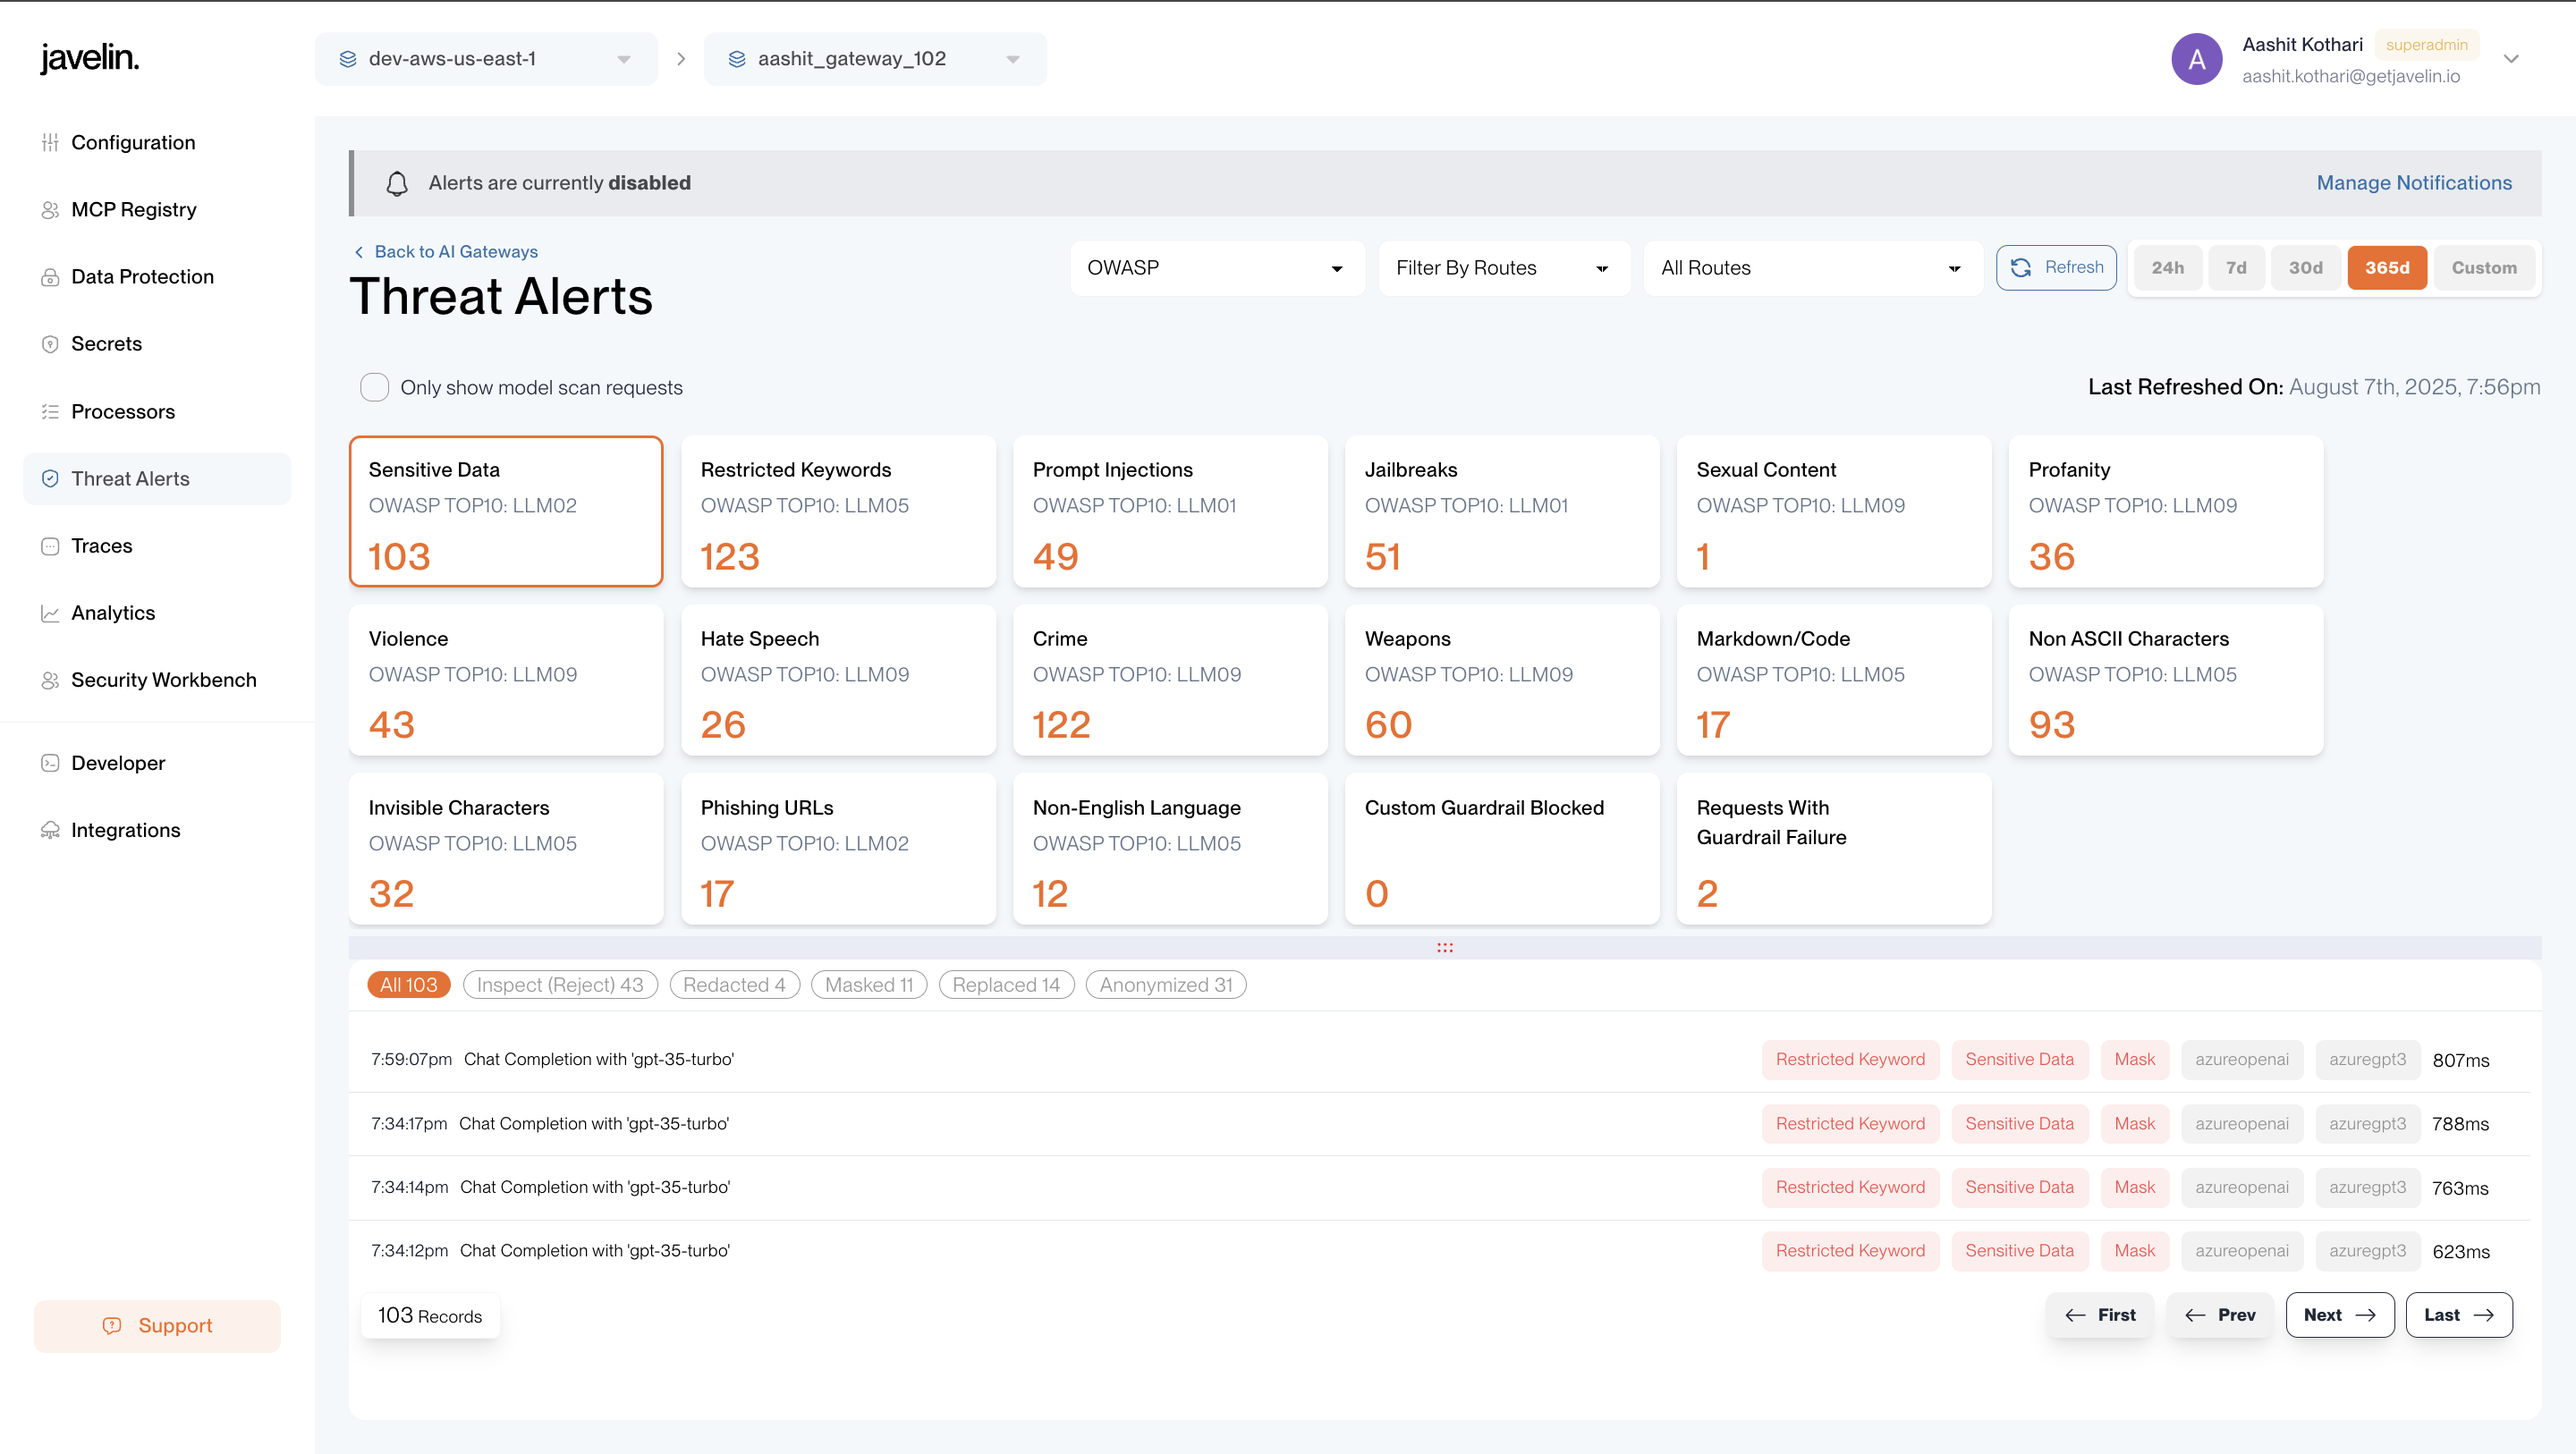
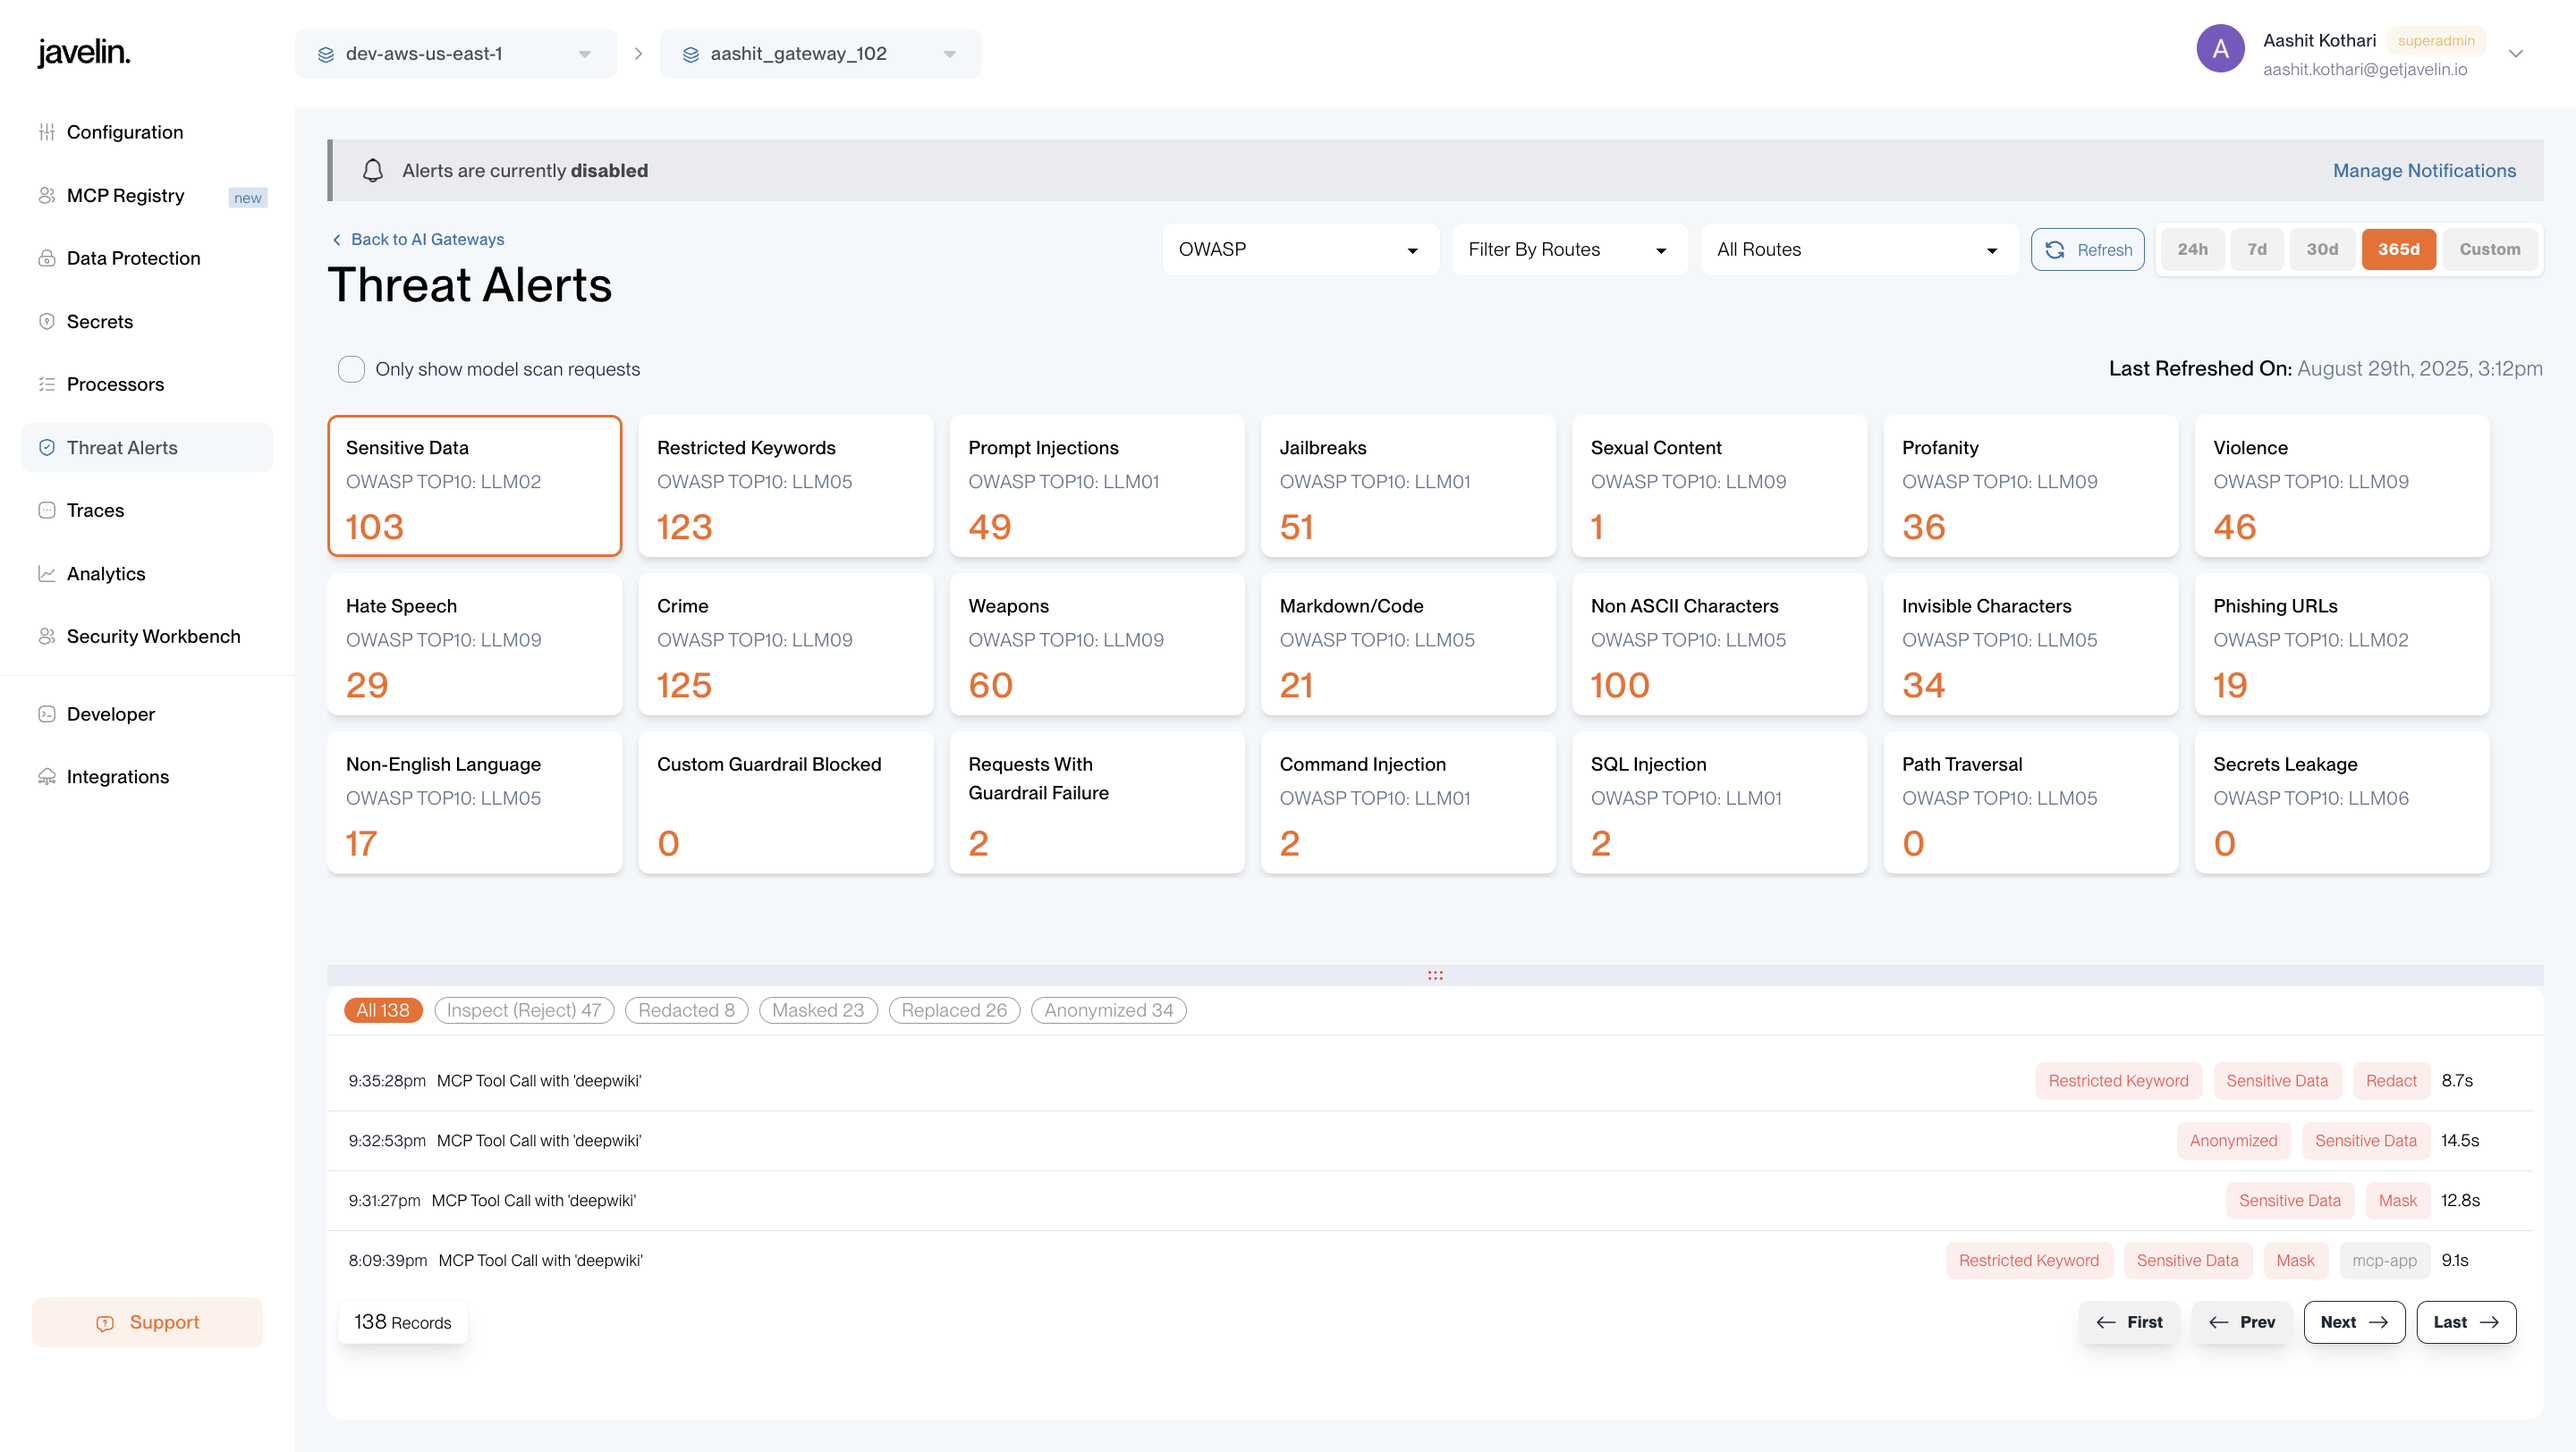
fix: Added security filter policy details in mcp documentation

diff --git a/docs/javelin-core/mcpoverview.md b/docs/javelin-core/mcpoverview.md
@@ -22,7 +22,7 @@ Within Javelin, MCP acts as a **bridge between LLMs and external systems**, enab
 - **Application-Centric Usage** – All MCP interactions are tied to the Application that invoked them, keeping usage, logs, and policies scoped to the right context.
 
 ### **2. Enterprise Security**
-- **Policy Enforcement** – Apply filters (e.g., Malicious Instruction Injections, Data Protection).  
+- **Policy Enforcement** – Apply filters (e.g., Malicious Instruction Injections, Data Protection, Security Filters).  
 - **Audit Trail** – Every request and tool invocation is logged.  
 - **Vulnerability Scan** – Whenever you **enable/disable a tool** or open the **Tools tab**, Javelin automatically runs a **vulnerability scan** to detect security risks in that tool.  
 
@@ -53,7 +53,7 @@ Within Javelin, MCP acts as a **bridge between LLMs and external systems**, enab
 
 ### Core Components
 1. **MCP Registry** – Central place to register and configure MCP servers.  
-2. **Policy Engine** – Enforces Malicious Instruction Injections, Data Protection, and other filters.  
+2. **Policy Engine** – Enforces Malicious Instruction Injections, Data Protection, Security Filters and other filters.  
 3. **Tool Definitions** – List of tools available per server.  
 4. **Vulnerability Scan** – Continuous vulnerability assessment for registered tools.  
 5. **Chronicles & Audit** – Request/Response logs for compliance.  
@@ -75,6 +75,7 @@ Within Javelin, MCP acts as a **bridge between LLMs and external systems**, enab
 ### **Security Policies**
 - **Malicious Instruction Injections** – Defend against jailbreaks or injection attempts.  
 - **Data Protection** – Prevent sensitive data leakage.  
+- **Security Filters** – Protect against MCP Tool security vulnerabilities. 
 
 
 ## Use Cases

diff --git a/docs/javelin-core/mcpconfiguration.md b/docs/javelin-core/mcpconfiguration.md
@@ -35,6 +35,10 @@ mcp_registry:
       enabled: false
       content_types: []
       reject_prompt: ""
+    indirect_prompt_safety:
+      enabled: false
+      content_types: []
+      reject_prompt: ""
 ```
 
 ## Field Descriptions
@@ -55,6 +59,7 @@ mcp_registry:
 |--------------------|---------|----------|----------|-------------------------------------------------------------------------------------------------------------------------------------|
 | `dlp`              | object  | No       | —        | Detects and prevents the exposure of sensitive information such as personally identifiable data, credentials, or confidential terms in model interactions. |
 | `prompt_safety`    | object  | No       | —        | Protects against manipulation attempts like prompt injections or jailbreaks that try to bypass model restrictions or redirect behavior. |
+| `indirect_prompt_safety`    | object  | No       | —        | Detects and blocks common security threats in MCP tool usage, such as command injection, path traversal, secrets leakage, and SQL injection. |
 
 ## Tool Enable/Disable Payload
 

diff --git a/docs/javelin-core/mcpguides.md b/docs/javelin-core/mcpguides.md
@@ -48,6 +48,7 @@ Policies ensure safer usage of MCP tools by applying filters such as:
 
 - **Malicious Instruction Injections** – Defends against prompt injection or jailbreak attempts.  
 - **Data Protection** – Prevents exposure of sensitive data like PII, credentials, or secrets.  
+- **Security Filters** – Defends against MCP tool vulnerabilities such as command injection, path traversal, secrets leakage, and SQL injection.
 
 These registry-level guardrails are enforced **after a tool response is received** when requests are made using an **application key**.  
 

diff --git a/docs/javelin-webapp/threat-alerts/overview.md b/docs/javelin-webapp/threat-alerts/overview.md
@@ -24,9 +24,16 @@ Aggregate key security events into one easy-to-navigate page.
 - Weapons
 - Markdown/Code
 - Non-Ascii Character
+- Invisible Characters
 - Phishing Urls
+- Non-English Language
 - High Entropy
 - Custom Guardrails 
+- Requests With Guardrail Failure
+- Command Injection
+- SQL Injection
+- Path Traversal
+- Secrets Leakage
 
 ### Interactive Filters 
 Click on any category metric card to filter the requests that match the metric accordingly.
